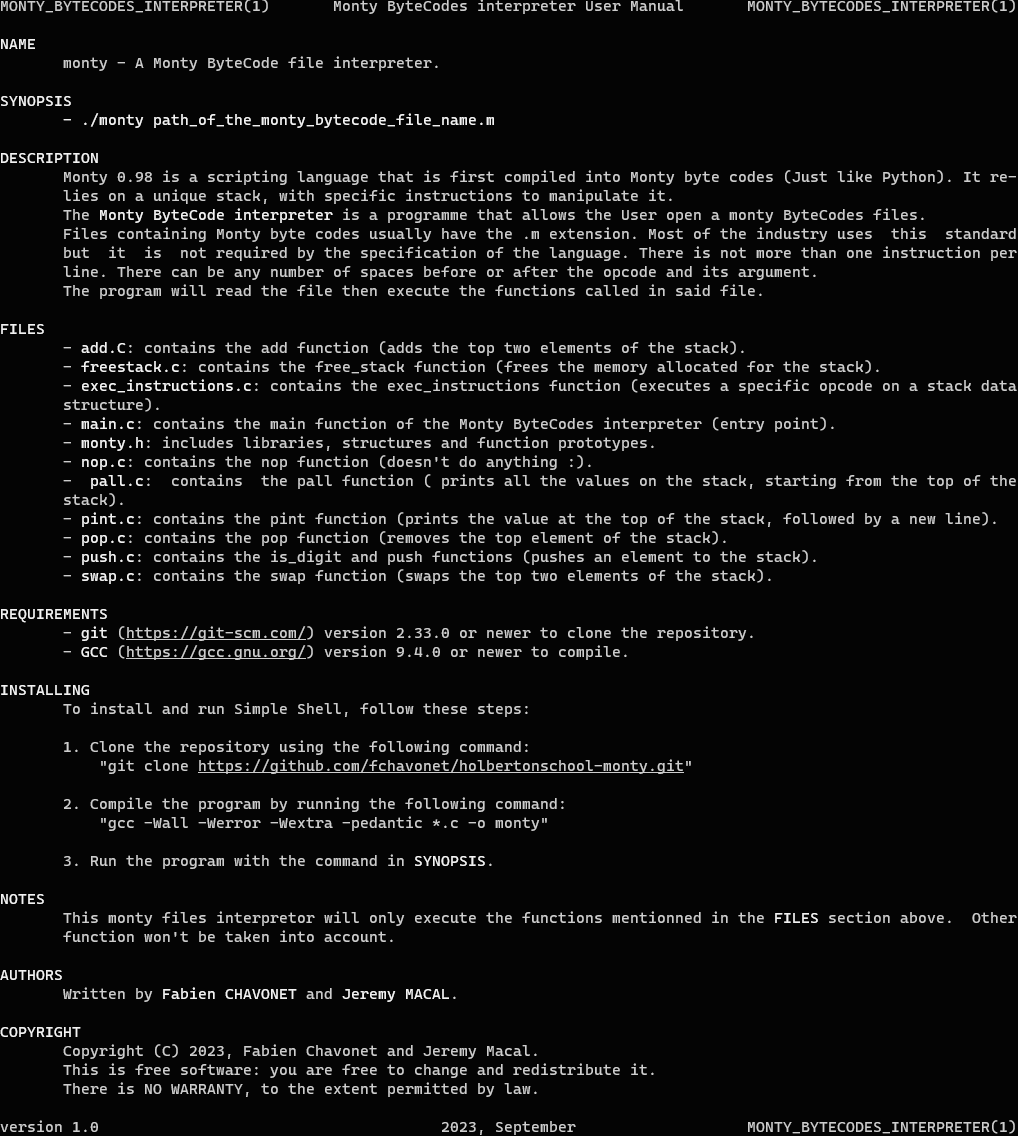
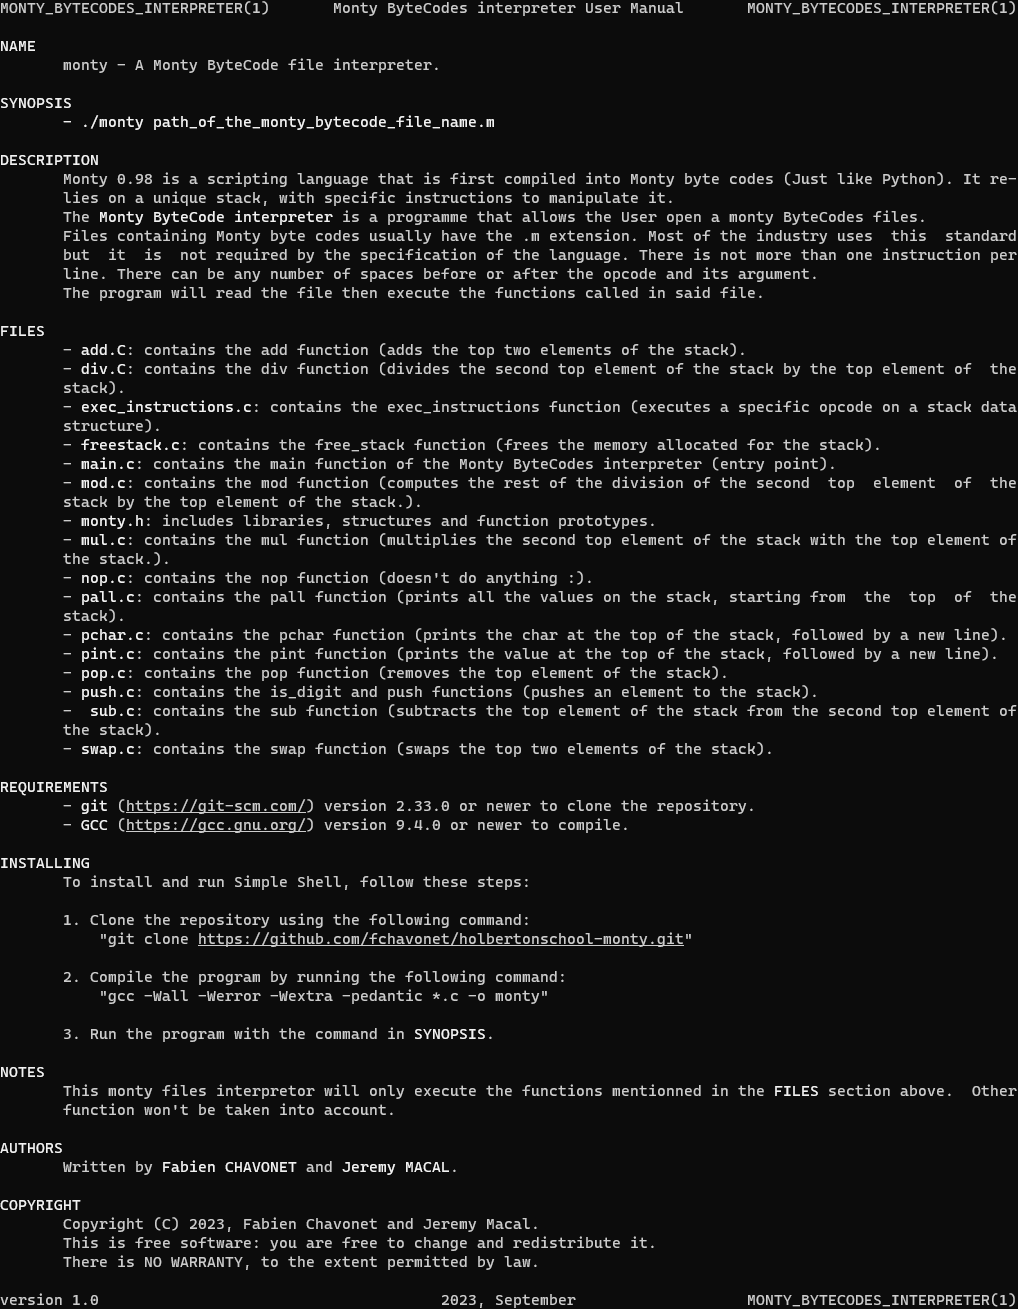
README.md and Man page update.

diff --git a/README.md b/README.md
@@ -89,6 +89,16 @@ src="https://upload.wikimedia.org/wikipedia/commons/thumb/9/9a/Visual_Studio_Cod
 
 `void nop(stack_t **stack, unsigned int line_number);`: doesn’t do anything :).
 
+`void sub(stack_t **stack, unsigned int line_number);`: subtracts the top element of the stack from the second top element of the stack.
+
+`void _div(stack_t **stack, unsigned int line_number);`: divides the second top element of the stack by the top element of the stack.
+
+`void mul(stack_t **stack, unsigned int line_number);`: multiplies the second top element of the stack with the top element of the stack.
+
+`void mod(stack_t **stack, unsigned int line_number);`: computes the rest of the division of the second top element of the stack by the top element of the stack.
+
+`void pchar(stack_t **stack, unsigned int line_number);`: prints the char at the top of the stack, followed by a new line.
+
 ## :clipboard: <span id="requirements">Requirements</span>
 
 - Allowed editors: **vim**, **emacs** or Visual Code Studio.
@@ -316,6 +326,145 @@ julien@ubuntu:~/monty$
 
 ### <span id="advanced-tasks">Advanced tasks</a>
 
+<details>
+	<summary>
+		<b>Task 6. sub</b>
+	</summary>
+	Implement the sub opcode.
+	<br><br>
+	<b>The sub opcode</b>
+	<br>
+	The opcode sub subtracts the top element of the stack from the second top element of the stack.
+	<ul>
+		<li>Usage: sub.</li>
+		<li>
+		If the stack contains less than two elements, print the error message L"line_number": can't sub, stack too short, followed by a new line, and exit with the status EXIT_FAILURE.
+		</li>
+		<li>
+		The result is stored in the second top element of the stack, and the top element is removed, so that at the end:
+		</li>
+		<ul>
+			<li>The top element of the stack contains the result.</li>
+			<li>The stack is one element shorter.</li>
+		</ul>
+	</ul>
+
+```
+julien@ubuntu:~/monty$ cat bytecodes/19.m 
+push 1
+push 2
+push 10
+push 3
+sub
+pall
+julien@ubuntu:~/monty$ ./monty bytecodes/19.m 
+7
+2
+1
+julien@ubuntu:~/monty$
+```
+</details>
+
+<details>
+	<summary>
+		<b>Task 7. dic</b>
+	</summary>
+	Implement the div opcode.
+	<br><br>
+	<b>The div opcode</b>
+	<br>
+	The opcode div divides the second top element of the stack by the top element of the stack.
+	<ul>
+		<li>Usage: div.</li>
+		<li>
+		If the stack contains less than two elements, print the error message L<line_number>: can't div, stack too short, followed by a new line, and exit with the status EXIT_FAILURE.
+		</li>
+		<li>The result is stored in the second top element of the stack, and the top element is removed, so that at the end:</li>
+		<ul>
+			<li>The top element of the stack contains the result.</li>
+			<li>The stack is one element shorter.</li>
+		</ul>
+		<li>
+		If the top element of the stack is 0, print the error message L"line_number": division by zero, followed by a new line, and exit with the status EXIT_FAILURE
+		</li>
+	</ul>
+</details>
+
+<details>
+	<summary>
+		<b>Task 8. mul</b>
+	</summary>
+	Implement the mum opcode.
+	<br><br>
+	<b>The mul opcode</b>
+	<br>
+	The opcode mul multiplies the second top element of the stack with the top element of the stack.
+	<ul>
+		<li>Usage: mul.</li>
+		<li>
+		If the stack contains less than two elements, print the error message L"line_number": can't mul, stack too short, followed by a new line, and exit with the status EXIT_FAILURE.
+		</li>
+		<li>The result is stored in the second top element of the stack, and the top element is removed, so that at the end:</li>
+		<ul>
+			<li>The top element of the stack contains the result.</li>
+			<li>The stack is one element shorter.</li>
+		</ul>
+	</lu>
+</details>
+
+<details>
+	<summary>
+		<b>Task 9. mod</b>
+	</summary>
+	Implement the mod opcode.
+	<br><br>
+	<b>The mod opcode</b>
+	<br>
+	The opcode mod computes the rest of the division of the second top element of the stack by the top element of the stack.
+	<ul>
+		<li>Usage: mod.</li>
+		<li>
+		If the stack contains less than two elements, print the error message L<line_number>: can't mod, stack too short, followed by a new line, and exit with the status EXIT_FAILURE.
+		</li>
+		<li>The result is stored in the second top element of the stack, and the top element is removed, so that at the end:</li>
+		<ul>
+			<li>The top element of the stack contains the result.</li>
+			<li>The top element of the stack contains the result.</li>
+		</ul>
+		<li>
+		If the top element of the stack is 0, print the error message L<line_number>: division by zero, followed by a new line, and exit with the status EXIT_FAILURE.
+		</li>
+	</ul>
+</details>
+
+<details>
+	<summary>
+		<b>Task 10. comments</b>
+	</summary>
+	Every good language comes with the capability of commenting. When the first non-space character of a line is #, treat this line as a comment (don’t do anything).
+</details>
+
+<details>
+	<summary>
+		<b>Task 11. pchar</b>
+	</summary>
+	Implement the pchar opcode.
+	<br><br>
+	<b>The pchar opcode</b>
+	<br>
+	The opcode pchar prints the char at the top of the stack, followed by a new line.
+	<ul>
+		<li>Usage: pchar.</li>
+		<li>The integer stored at the top of the stack is treated as the ascii value of the character to be printed</li>
+		<li>
+		If the value is not in the ascii table (man ascii) print the error message L"line_number": can't pchar, value out of range, followed by a new line, and exit with the status EXIT_FAILURE.
+		</li>
+		<li>
+		If the stack is empty, print the error message L"line_number": can't pchar, stack empty, followed by a new line, and exit with the status EXIT_FAILURE.
+		</li>
+	</ul>
+</details>
+
 ## :bookmark_tabs: <span id="flowcharts">Flowcharts</a>
 
 ![Image](https://raw.githubusercontent.com/fchavonet/holbertonschool-monty/main/resources/screenshot-flowchart.png)
@@ -328,16 +477,21 @@ julien@ubuntu:~/monty$
 |      resources      |                            contains images for README.md file                            |
 |      README.md      |                                 this readme file :wink:                                  |
 |        add.c        |                                contains the add function                                 |
-|     free_stack.c    |                             contains the free_stack function                             |
+|        div.c        |                                contains the div function                                 |
 | exec_instructions.c |                          contains the exec_instructions function                         |
+|     free_stack.c    |                             contains the free_stack function                             |
 |       main.c        |        contains the main function of the Monty ByteCodes interpreter (entry point)       |
 |      man_monty      |                         man page of the Monty ByteCodes interpreter                      |
+|        mod.c        |                                contains the mod function                                 |
 |       monty.h       |                   includes libraries, structures and function prototypes                 |
+|        mul.c        |                                 contains the mul function                                |
 |       nop.c         |                                 contains the nop function                                |
 |       pall.c        |                                 contains the pall function                               |
+|      pchar.c        |                                contains the pchar function                               |
 |       pint.c        |                                 contains the pint function                               |
 |       pop.c         |                                 contains the pop function                                |
 |       push.c        |                         contains the is_digit and push functions                         |
+|       sub.c         |                                 contains the sub function                                |
 |       swap.c        |                                 contains the swap function                               |
 
 ## :computer: <span id="install_use">How to install and use the program</a>
@@ -529,6 +683,171 @@ nop
 
 ```
 $ ./monty bytecodes/04-mandatory_task4_add.m
+$
+```
+</details>
+
+<details>
+	<summary>
+		<b>06-advanced_task6_sub.m</b>
+	</summary>
+	<br>
+
+```
+push 1
+push 2
+push 10
+push 3
+sub
+pall
+```
+
+<b>Output:</b>
+
+```
+$  ./monty bytecodes/06-advanced_task6_sub.m
+7
+2
+1
+$
+```
+</details>
+
+<details>
+	<summary>
+		<b>07-advanced_task7_div.m</b>
+	</summary>
+	<br>
+
+```
+push 84
+push 2
+div
+pall
+```
+
+<b>Output:</b>
+
+```
+$  ./monty bytecodes/07-advanced_task7_div.m
+42
+$
+```
+</details>
+
+<details>
+	<summary>
+		<b>08-advanced_task8_mul.m</b>
+	</summary>
+	<br>
+
+```
+push 21
+push 2
+mul
+pall
+```
+
+<b>Output:</b>
+
+```
+$  ./monty bytecodes/08-advanced_task8_mul.m
+42
+$
+```
+</details>
+
+<details>
+	<summary>
+		<b>09-advanced_task9_mod.m</b>
+	</summary>
+	<br>
+
+```
+push 402
+push 98
+mod
+pall
+```
+
+<b>Output:</b>
+
+```
+$  ./monty bytecodes/09-advanced_task9_mod.m
+10
+$
+```
+</details>
+
+<details>
+	<summary>
+		<b>10-advanced_task10_hash.m</b>
+	</summary>
+	<br>
+
+```
+push 21
+# This is a comment :)
+push 21
+# 42 is the answer to life, the universe, and everything...
+add
+pall
+#
+```
+
+<b>Output:</b>
+
+```
+$  ./monty bytecodes/10-advanced_task10_hash.m
+42
+$
+```
+</details>
+
+<details>
+	<summary>
+		<b>11-advanced_task11_pchar.m</b>
+	</summary>
+	<br>
+
+```
+push 1 This should not be taken into account
+# Comment
+push 2
+push 3
+       # Another comment
+#
+#Above is an empty comment
+pint
+nop
+push 4
+swap
+pop
+ # Another just below
+      #
+add
+push 1
+sub
+push 2
+div
+push 12
+mul
+push 9
+mod
+push 65
+pchar
+pall
+```
+
+<b>Output:</b>
+
+```
+$ ./monty bytecodes/11-advanced_task11_pchar.m 
+3
+A
+65
+6
+1
 $
 ```
 </details>
